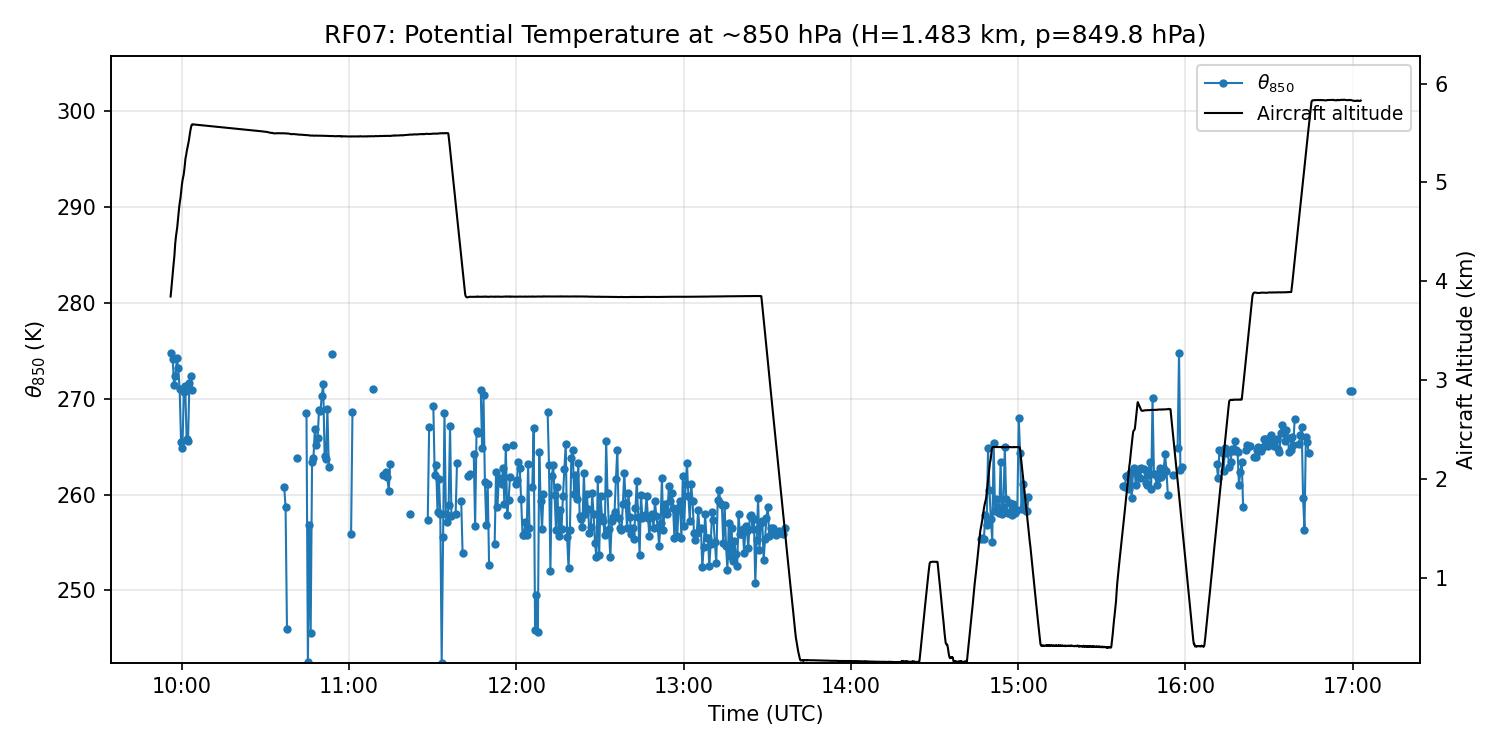
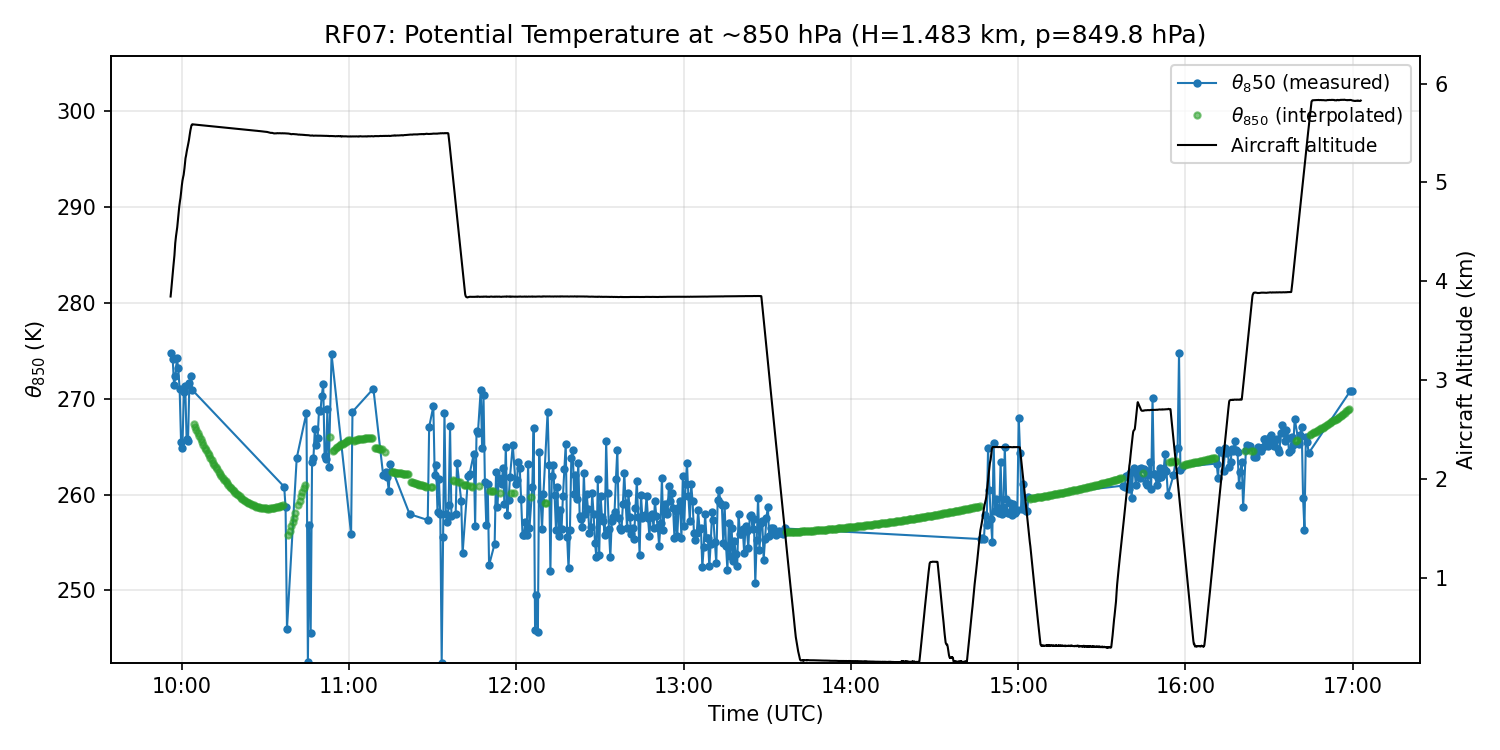
interpolate theta850

diff --git a/src/638-021/potential_temperature.py b/src/638-021/potential_temperature.py
@@ -122,7 +122,106 @@ def regrid_timeseries(
     return time_regrid, data_regrid
 
 
-def compute_theta_850(flight: str) -> dict:
+def find_gaps(mask: np.ndarray) -> list[tuple[int, int]]:
+    """
+    Find contiguous regions of True values in a boolean mask.
+
+    Returns list of (start, end) indices for each gap.
+    """
+    gaps = []
+    in_gap = False
+    gap_start = 0
+
+    for i, is_missing in enumerate(mask):
+        if is_missing and not in_gap:
+            gap_start = i
+            in_gap = True
+        elif not is_missing and in_gap:
+            gaps.append((gap_start, i))
+            in_gap = False
+
+    if in_gap:
+        gaps.append((gap_start, len(mask)))
+
+    return gaps
+
+
+def interpolate_gaps(
+        time: np.ndarray,
+        data: np.ndarray,
+        window_minutes: float = 30,
+        poly_degree: int = 2,
+        min_points: int = 10,
+) -> tuple[np.ndarray, np.ndarray]:
+    """
+    Interpolate interior gaps using polynomial curve fitting.
+
+    Only fills gaps that have valid data on both sides (skips edges to avoid
+    extrapolation). For each interior gap, fits a polynomial to data in a
+    window before and after the gap, then uses the fitted curve to fill it.
+
+    Returns:
+        data_filled: array with interior gaps filled
+        is_interpolated: boolean mask indicating which points were interpolated
+    """
+    missing = np.isnan(data)
+    data_filled = data.copy()
+    valid = ~missing
+
+    if np.sum(valid) < 2:
+        return data, missing
+
+    window_hours = window_minutes / 60.0
+    gaps = find_gaps(missing)
+    is_interpolated = np.zeros_like(data, dtype=bool)
+
+    for gap_start, gap_end in gaps:
+        # only interpolate interior gaps (valid data on both sides)
+        if not np.any(valid[:gap_start]) or not np.any(valid[gap_end:]):
+            continue
+
+        gap_time = time[gap_start:gap_end]
+
+        # find valid data within window before and after gap
+        before_mask = (time < time[gap_start]) & (time >= time[gap_start] - window_hours) & valid
+        after_mask = (time > time[gap_end - 1]) & (time <= time[gap_end - 1] + window_hours) & valid
+
+        fit_time = time[before_mask | after_mask]
+        fit_data = data[before_mask | after_mask]
+
+        if len(fit_data) < min_points:
+            # fall back to linear interpolation
+            idx_before = np.where((time < time[gap_start]) & valid)[0]
+            idx_after = np.where((time > time[gap_end - 1]) & valid)[0]
+
+            if len(idx_before) > 0 and len(idx_after) > 0:
+                i0, i1 = idx_before[-1], idx_after[0]
+                t0, t1 = time[i0], time[i1]
+                y0, y1 = data[i0], data[i1]
+                data_filled[gap_start:gap_end] = y0 + (y1 - y0) * (gap_time - t0) / (t1 - t0)
+                is_interpolated[gap_start:gap_end] = True
+            continue
+
+        # fit polynomial (normalize time for numerical stability)
+        t_mean = np.mean(fit_time)
+        t_std = np.std(fit_time)
+        if t_std < 1e-10:
+            continue
+
+        fit_time_norm = (fit_time - t_mean) / t_std
+        gap_time_norm = (gap_time - t_mean) / t_std
+
+        try:
+            coeffs = np.polyfit(fit_time_norm, fit_data, poly_degree)
+            data_filled[gap_start:gap_end] = np.polyval(coeffs, gap_time_norm)
+            is_interpolated[gap_start:gap_end] = True
+        except np.linalg.LinAlgError:
+            continue
+
+    return data_filled, is_interpolated
+
+
+def compute_theta_850(flight: str, interpolate: bool = True) -> dict:
     filenames = MARLI_FILES[flight]
 
     all_time = []
@@ -149,13 +248,27 @@ def compute_theta_850(flight: str) -> dict:
         time_hours_native, theta_850_native, TEMPORAL_RESOLUTION
     )
 
+    # interpolate gaps if requested
+    if interpolate:
+        theta_850_filled, is_interpolated = interpolate_gaps(
+            time_hours_regrid,
+            theta_850_regrid,
+            window_minutes=30,
+            poly_degree=2,
+            min_points=20,
+        )
+    else:
+        theta_850_filled = theta_850_regrid
+        is_interpolated = np.zeros_like(theta_850_regrid, dtype=bool)
+
     return {
         "time_utc_hours": time_hours_native,
-        "theta_850": theta_850_regrid,
+        "theta_850": theta_850_filled,
         "time_regrid_utc_hours": time_hours_regrid,
         "altitude": altitude_native,
         "h_850": h_actual,
         "p_850": p_actual,
+        "is_interpolated": is_interpolated,
     }
 
 
@@ -172,16 +285,35 @@ def plot_theta_850(
     theta = result["theta_850"]
     time_native = result["time_utc_hours"]
     alt = result["altitude"]
+    is_interpolated = result["is_interpolated"]
 
     fig, ax = plt.subplots(figsize=(10, 5))
+
+    # plot measured data with solid line
+    measured_mask = ~is_interpolated
     ax.plot(
-        time_regrid,
-        theta,
+        time_regrid[measured_mask],
+        theta[measured_mask],
         marker="o",
         markersize=3,
         linewidth=1,
-        label="$\\theta_{850}$",
+        color="tab:blue",
+        label=f"$\\theta_{850}${" (measured)" if np.any(is_interpolated) else ""}",
     )
+
+    # plot interpolated data with dashed line
+    if np.any(is_interpolated):
+        ax.plot(
+            time_regrid[is_interpolated],
+            theta[is_interpolated],
+            marker="o",
+            markersize=3,
+            linewidth=0,
+            color="tab:green",
+            alpha=0.6,
+            label="$\\theta_{850}$ (interpolated)",
+        )
+
     ax.xaxis.set_major_formatter(
         plt.FuncFormatter(lambda h, _: f"{int(h):02d}:{int((h % 1) * 60):02d}")
     )
@@ -216,7 +348,7 @@ def main():
     # compute all results and find global ranges
     results = {}
     for flight in flights:
-        results[flight] = compute_theta_850(flight)
+        results[flight] = compute_theta_850(flight, interpolate=True)
 
     all_theta = np.concatenate([r["theta_850"] for r in results.values()])
     all_alt = np.concatenate([r["altitude"] for r in results.values()])
@@ -226,13 +358,14 @@ def main():
     # plot with fixed ranges
     for flight in flights:
         result = results[flight]
-        valid = np.count_nonzero(~np.isnan(result["theta_850"]))
+        measured = np.count_nonzero(~result["is_interpolated"])
+        interpolated = np.count_nonzero(result["is_interpolated"])
         total = len(result["theta_850"])
         plot = plot_theta_850(flight, result, theta_lim, alt_lim)
         print(
             f"{flight}: theta_850 at H={result['h_850']:.4f} km "
             f"(p={result['p_850']:.1f} hPa), "
-            f"{valid}/{total} valid profiles -> {plot}"
+            f"{measured} measured, {interpolated} interpolated ({total} total) -> {plot}"
         )
 
 
